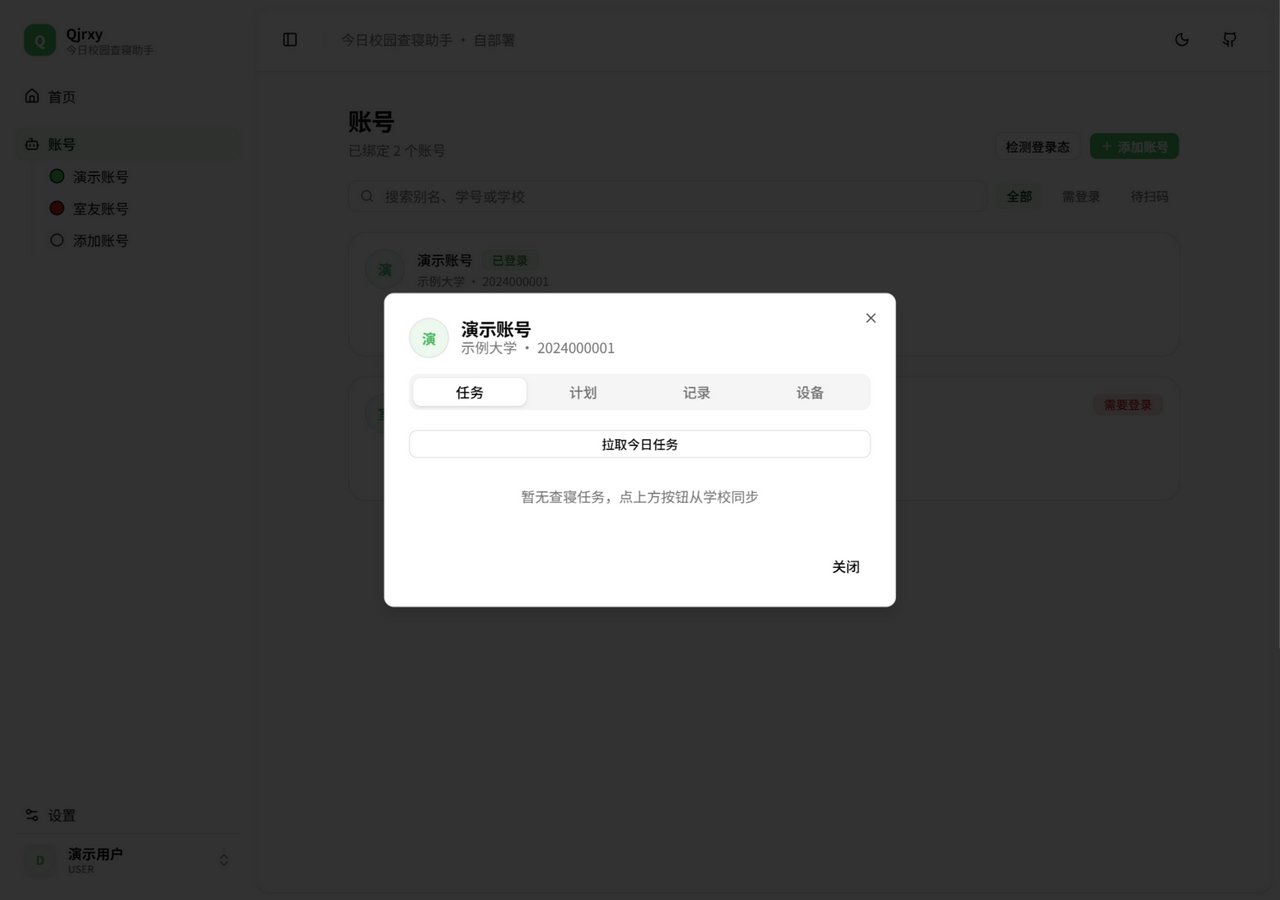
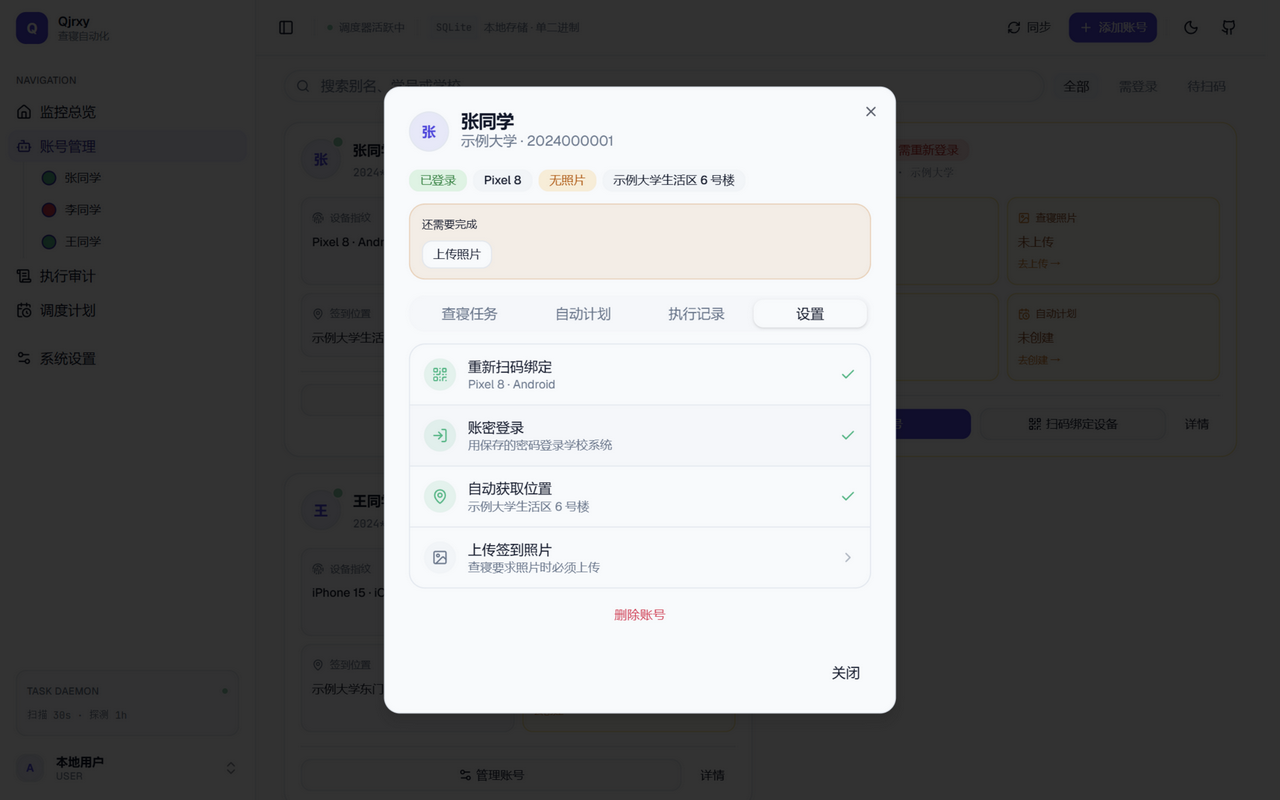
docs: README/deploy 文档更新至单用户模式与四页界面，重制截图
- README：两种运行形态（单用户直开 / QINGJIN_MULTI_USER 多用户）、
  双击即用快速开始、使用流程改经调度计划页、配置表补
  QINGJIN_MULTI_USER/QINGJIN_NO_OPEN、界面区展示四页
- deploy/README.md：顶部模式说明 + 升级提示（必须补设
  MULTI_USER 否则鉴权失效）+ 各运行示例补齐变量
- 重制全部截图为靛蓝新 UI（虚构演示数据）：新增 schedules/audit，
  共 6 张
- 顺带修复启动日志拼接（http://localhost127.0.0.1:8099）：
  localURL 改用 SplitHostPort，移除 displayAddr

diff --git a/cmd/qingjin/main.go b/cmd/qingjin/main.go
@@ -10,9 +10,9 @@ import (
 	"net/http"
 	"os"
 	"os/exec"
+	"net"
 	"os/signal"
 	"runtime"
-	"strings"
 	"syscall"
 	"time"
 
@@ -90,9 +90,9 @@ func main() {
 
 	go func() {
 		if lan := server.LANBaseURLs(cfg.Addr); len(lan) > 0 {
-			log.Printf("服务已启动：%s（局域网）或 http://localhost%s", lan[0], displayAddr(cfg.Addr))
+			log.Printf("服务已启动：%s（局域网）或 %s", lan[0], localURL(cfg.Addr))
 		} else {
-			log.Printf("服务已启动：http://localhost%s", displayAddr(cfg.Addr))
+			log.Printf("服务已启动：%s", localURL(cfg.Addr))
 		}
 		for _, u := range server.LANBaseURLs(cfg.Addr) {
 			log.Printf("局域网访问：%s", u)
@@ -165,27 +165,14 @@ func bootstrapAdmin(ctx context.Context, svc *service.Service, cfg *config.Confi
 	return nil
 }
 
-func displayAddr(addr string) string {
-	if addr == "" {
-		return ":8090"
-	}
-	if addr[0] == ':' {
-		return addr
-	}
-	return addr
-}
-
 // localURL 计算本机可访问的地址：未绑定具体 IP 时用 127.0.0.1。
 func localURL(addr string) string {
-	host, port, ok := strings.Cut(addr, ":")
-	if !ok {
-		port = addr
+	host, port, err := net.SplitHostPort(addr)
+	if err != nil {
+		host, port = "localhost", "8090"
 	}
 	if host == "" {
-		host = "127.0.0.1"
-	}
-	if port == "" {
-		port = "8090"
+		host = "localhost"
 	}
 	return fmt.Sprintf("http://%s:%s", host, port)
 }

diff --git a/README.md b/README.md
@@ -10,74 +10,109 @@
 
 ## 界面
 
+四个页面：**监控总览 / 账号管理 / 执行审计 / 调度计划**。
+
 以下截图使用虚构的演示数据（示例大学 / 演示账号），不含任何真实账号信息。
 
-| 账号管理 | 执行详情 |
+| 账号管理 | 调度计划 |
 | --- | --- |
-| ![账号](docs/screenshots/accounts.png) | ![详情](docs/screenshots/detail.png) |
+| ![账号](docs/screenshots/accounts.png) | ![调度](docs/screenshots/schedules.png) |
+
+| 执行详情 | 执行审计 |
+| --- | --- |
+| ![详情](docs/screenshots/detail.png) | ![审计](docs/screenshots/audit.png) |
 
 ![设置](docs/screenshots/settings.png)
 
 ## 功能
 
+- **两种运行形态**
+  - **单用户模式（默认）**：本地双击 exe 即用——自动打开浏览器、跳过登录、注册口关闭；API 仅建议在家庭网络使用
+  - **多用户模式**：`QINGJIN_MULTI_USER=true` 恢复账号体系（登录 / 注册门 / 会话限流），服务器多人部署用
 - **自动查寝** — 按计划的星期与时段执行；任务未到时间自动等待，不产生无效提交
 - **窗口驱动调度** — 同步一次任务后在本地计算唤醒时刻，不做高频轮询（每账号每天约 2 次请求）
 - **会话自愈** — 登录态定期探测，失效时用保存的密码自动重登并同步任务
 - **多账号** — 每个账号独立设备指纹，扫码获取真实设备信息，提交特征与 App 一致
 - **自动登录** — 账密 AES-256-GCM 加密存储，图形验证码在界面内输入
 - **自动定位** — 从学校下发的任务读取签到点与半径，无需手动选点
+- **执行审计** — 每次执行带流水号（traceId）、耗时与围栏偏移，支持毫秒级时间线回放、CSV 导出与实时刷新
 - **执行记录** — 成功 / 失败 / 待核对分级，7 日趋势，签到点距离可回溯
 - **深色模式** · 移动端适配 · 单二进制部署
 
 ## 快速开始
 
-### 方式一：下载二进制
+### 本地使用（Windows / macOS / Linux）
 
-从 [Releases](../../releases) 下载对应平台产物，直接运行：
+从 [Releases](../../releases) 下载对应平台产物，**双击运行即可**：
+
+- 自动打开浏览器（优先局域网地址，方便手机扫码）
+- 无需注册登录，直接添加账号
+
+想只允许本机访问：
 
 ```bash
-./qjrxy -addr :8090 -data ./data
+QINGJIN_ADDR=127.0.0.1:8090 ./qjrxy
 ```
 
-### 方式二：Docker
+> 单用户模式没有鉴权，请只在可信网络（家庭 Wi-Fi）下使用；服务器公网部署请看下一节。
+
+### 服务器部署（多用户）
+
+```bash
+# 环境变量 QINGJIN_MULTI_USER=true 是关键，否则会以单用户模式运行
+QINGJIN_MULTI_USER=true QINGJIN_ADMIN_USER=admin QINGJIN_ADMIN_PASS='强密码' \
+  ./qjrxy -addr :8090 -data /var/lib/qjrxy/data
+```
+
+systemd / Docker / Nginx 反代的完整步骤见 [deploy/README.md](deploy/README.md)。
+
+### Docker
 
 ```bash
 docker build -f deploy/Dockerfile -t qjrxy .
-docker run -d -p 8090:8090 -v ./data:/app/data qjrxy
+docker run -d -p 8090:8090 -v ./data:/data qjrxy   # 镜像已内置 QINGJIN_MULTI_USER=true
 ```
 
-### 方式三：源码构建
+### 源码构建
 
 需要 Go ≥ 1.26、Node ≥ 20：
 
 ```bash
 make build          # 前端构建 + Go 编译 → bin/qjrxy
-./bin/qjrxy -addr :8090 -data ./data
+make linux          # 交叉编译 Linux amd64/arm64 → bin/qjrxy-linux-*
 ```
 
 > 仓库已提交构建好的 `web/dist`，只改后端时直接 `go build` 即可，无需 node。
 
 ## 使用流程
 
-1. 首次访问注册管理员账号（数据全部在你自己的服务器上）
-2. **账号页 → 添加账号**：学校（自动匹配）+ 学号 + 密码 → 保存即登录，自动获取签到点
-3. 点账号卡片 → **设备 → 扫码绑定设备**（用平时打卡的手机扫，App 右上角「＋」→ 扫一扫）
-4. 点账号卡片 → **设备 → 上传照片**（查寝要求照片时必填）
-5. 点账号卡片 → **计划 → 新建计划**：选星期与执行方式（跟随学校时间 / 自定义时段）
-6. 完成。之后每天到点自动查寝，首页可看状态
+**本地单用户**：双击 exe → 浏览器自动打开 → 从第 1 步开始。
+**服务器多用户**：浏览器打开 `http://服务器IP:8090` → 登录 → 从第 1 步开始。
+
+1. **账号页 → 添加账号**：学校（自动匹配）+ 学号 + 密码 → 保存即登录，自动获取签到点
+2. 点账号卡片 → **扫码绑定设备**（用平时打卡的手机扫，App 右上角「＋」→ 扫一扫；手机与电脑需在同一网络，服务器部署则任意网络均可）
+3. 点账号卡片 → **上传照片**（查寝要求照片时必填）
+4. **调度计划页 → 新建计划**：选执行账号、星期与执行方式（跟随学校时间 / 自定义时段）
+5. 完成。之后每天到点自动查寝，监控总览可看就绪率与执行流水，执行审计可回溯每次提交
 
 ## 配置
 
 | 环境变量 | 默认值 | 说明 |
 | --- | --- | --- |
-| `QINGJIN_ADDR` | `:8090` | 监听地址 |
+| `QINGJIN_MULTI_USER` | `false` | **多用户模式开关**。默认单用户直开（无鉴权）；服务器多人部署必须设 `true` |
+| `QINGJIN_ADDR` | `:8090` | 监听地址。配合 Nginx 反代建议设 `127.0.0.1:8090` |
 | `QINGJIN_DATA_DIR` | `./data` | 数据目录（SQLite、照片、密钥） |
+| `QINGJIN_NO_OPEN` | `false` | 设 `1` 关闭单用户模式启动后自动打开浏览器 |
 | `QINGJIN_SECRET` | 自动生成 | 32 字节密码加密密钥（base64） |
-| `QINGJIN_ADMIN_USER` | 空 | 首次启动创建的管理员账号 |
+| `QINGJIN_ADMIN_USER` | 空 | 首次启动创建的管理员账号（多用户模式） |
 | `QINGJIN_ADMIN_PASS` | 空 | 管理员密码 |
 | `QINGJIN_QUOTA_ENABLED` | `false` | 额度/卡密体系开关（托管多用户运营场景才需要） |
 | `QINGJIN_REGISTER_OPEN` | `false` | 是否允许自助注册。默认只在库中还没有任何用户时允许（首次初始化），之后注册口自动关闭 |
 | `QINGJIN_TLS_INSECURE_HOSTS` | 空 | 允许跳过证书校验的主机后缀，逗号分隔（如 `campusphere.net`）。仅个别学校证书链残缺时才用，默认对全部主机做严格校验 |
+
+> **关于单用户模式**：所有接口自动落到唯一的本地用户（老数据库会复用第一个用户，数据无缝迁移），
+> 无登录无注册，API 无鉴权——这是「双击就能用」的代价。请仅在可信网络使用；
+> 绑定非回环地址时启动日志会打印警告。
 
 > **关于证书校验**：服务器到学校这一跳承载学号与密码，默认做完整证书链校验。
 > 若某校入口证书链不完整导致无法登录，用 `QINGJIN_TLS_INSECURE_HOSTS` **精确列出该校域名**，
@@ -99,7 +134,7 @@ Go 后端（单二进制，go:embed 内嵌前端）
 ├── internal/cpdaily    今日校园协议层（登录 / 任务 / 提交 / 照片上传）
 ├── internal/scheduler  双循环调度器（计划执行 30s + 登录态探测按需）
 ├── internal/service    业务层（会话自愈、任务窗口计算、设备绑定）
-├── internal/server     HTTP API
+├── internal/server     HTTP API（含执行审计 /stats/7d、局域网地址探测）
 └── internal/store      SQLite（modernc.org/sqlite，无 CGO）
 前端
 └── web/frontend        React 19 + TypeScript + Tailwind v4 + shadcn/ui（Vite 构建）
@@ -125,7 +160,7 @@ make linux           # 交叉编译 Linux amd64/arm64
 
 ### 界面
 
-- **[OpeniLink Hub](https://github.com/openilink/openilink-hub)**（MIT）— 前端骨架来源。`web/frontend/src/components/ui/` 的 shadcn/ui 组件、侧边栏布局、登录页六边形背景、主题令牌均移植自该项目，并按本项目需求改造（导航收敛为三页、移除微信扫码/Passkey/OAuth 认证通道、补充业务组件）。
+- **[OpeniLink Hub](https://github.com/openilink/openilink-hub)**（MIT）— 前端骨架来源。`web/frontend/src/components/ui/` 的 shadcn/ui 组件、侧边栏布局、登录页六边形背景、主题令牌均移植自该项目，并按本项目需求改造（导航收敛为监控总览 / 账号管理 / 执行审计 / 调度计划四页、移除微信扫码/Passkey/OAuth 认证通道、补充业务组件）。
 - **[shadcn/ui](https://ui.shadcn.com)**（MIT）— 组件体系与 `radix-nova` 风格预设
 - **[Radix UI](https://www.radix-ui.com)**（MIT）— 无样式可访问性原语
 - **[Geist](https://vercel.com/font)** — 字体（SIL Open Font License）

diff --git a/deploy/README.md b/deploy/README.md
@@ -1,5 +1,9 @@
 # 部署步骤
 
+> **模式说明**：默认运行在**单用户模式**（无登录、无鉴权，为本地 exe 设计）。
+> 服务器公网部署**必须**设置环境变量 `QINGJIN_MULTI_USER=true` 恢复账号体系，
+> 否则所有接口将无鉴权暴露。下文所有命令均已包含该变量。
+
 ## 1. 上传二进制
 
 ```bash
@@ -62,7 +66,7 @@ export QINGJIN_ADMIN_PASS='换成你的强密码'
 ## 3. 运行
 
 ```bash
-sudo -u qjrxy QINGJIN_ADMIN_USER=admin QINGJIN_ADMIN_PASS='强密码' \
+sudo -u qjrxy QINGJIN_MULTI_USER=true QINGJIN_ADMIN_USER=admin QINGJIN_ADMIN_PASS='强密码' \
   /usr/local/bin/qjrxy -addr :8090 -data /var/lib/qjrxy/data
 ```
 
@@ -70,7 +74,7 @@ sudo -u qjrxy QINGJIN_ADMIN_USER=admin QINGJIN_ADMIN_PASS='强密码' \
 
 ```bash
 sudo cp deploy/qjrxy.service /etc/systemd/system/
-sudo vim /etc/systemd/system/qjrxy.service   # 改掉 QINGJIN_ADMIN_PASS
+sudo vim /etc/systemd/system/qjrxy.service   # 改掉 QINGJIN_ADMIN_PASS；确认有 Environment=QINGJIN_MULTI_USER=true
 sudo systemctl daemon-reload
 sudo systemctl enable --now qjrxy
 sudo journalctl -u qjrxy -f
@@ -82,6 +86,7 @@ sudo journalctl -u qjrxy -f
 docker build -f deploy/Dockerfile -t qjrxy .
 docker run -d --name qjrxy -p 8090:8090 -v $PWD/data:/data \
   -e QINGJIN_ADMIN_USER=admin -e QINGJIN_ADMIN_PASS='强密码' qjrxy
+# 镜像已内置 QINGJIN_MULTI_USER=true，无需重复设置
 ```
 
 ## 4. 验证
@@ -92,6 +97,10 @@ curl http://127.0.0.1:8090/api/selftest      # crypto / database 都应为 ok
 ```
 
 浏览器打开 `http://服务器IP:8090`，用管理员账号登录。
+
+> **从旧版本升级**：新二进制默认单用户模式，升级后必须补设 `QINGJIN_MULTI_USER=true` 再重启，
+> 否则原鉴权会失效。数据库自动迁移（logs 表补 trace_id 列），账号与数据原样保留。
+> 验证：`curl -s http://127.0.0.1:8090/api/system/info | grep -o '"multiUser":[a-z]*'` 应输出 `true`。
 
 ## 5. 反向代理（建议）
 
